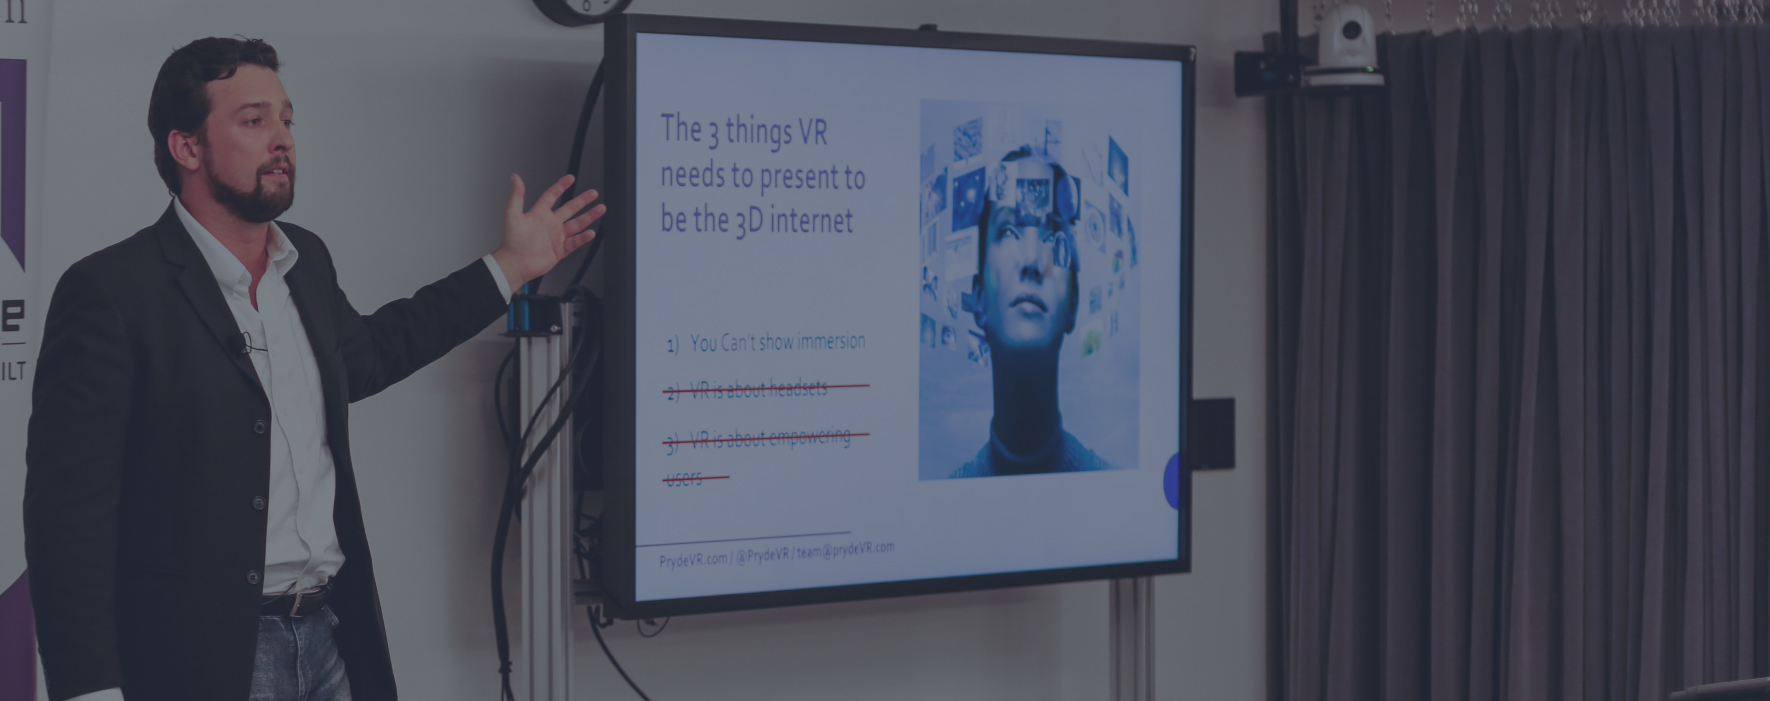
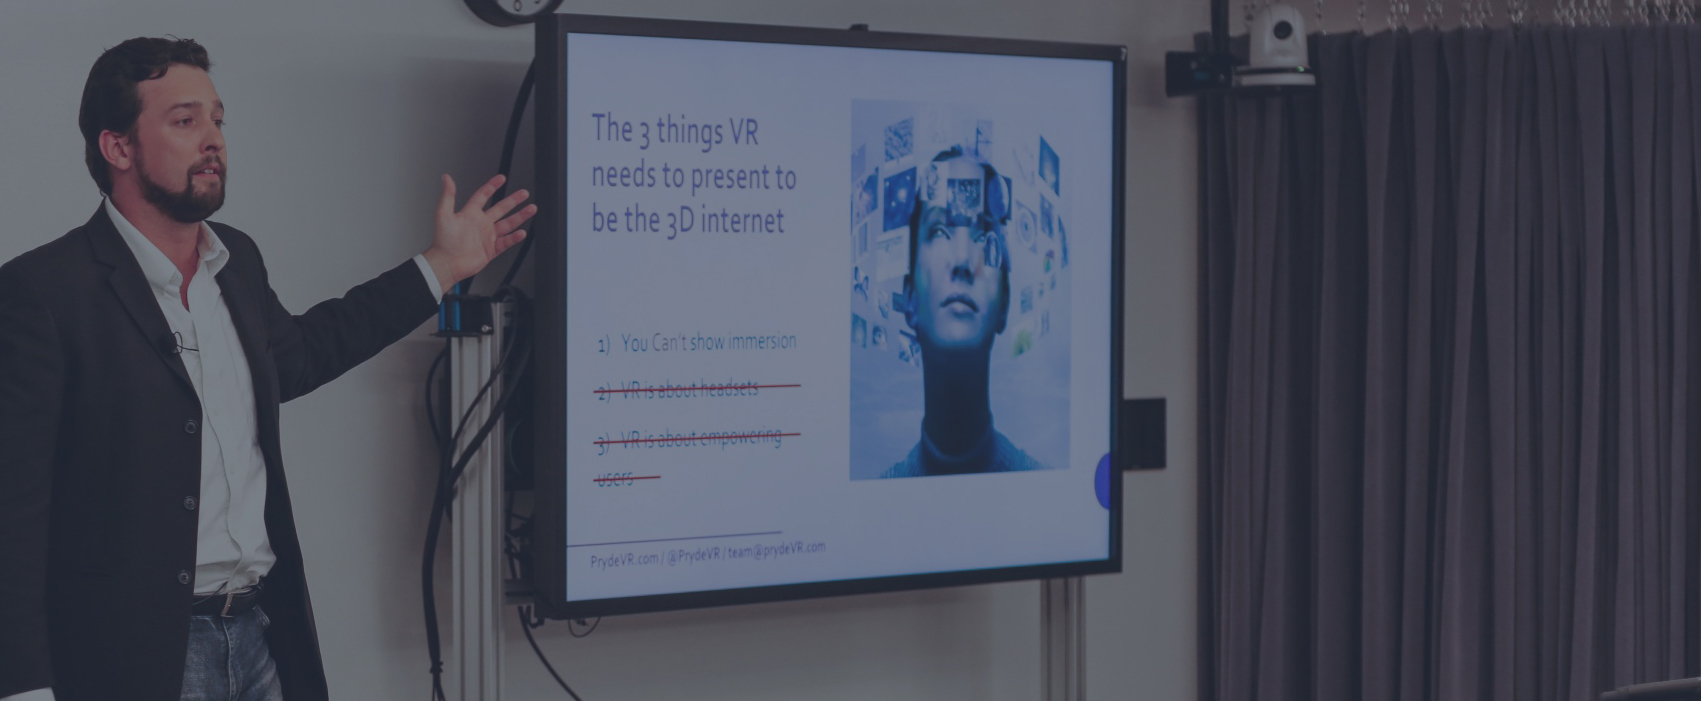
cropped about-bg-img

diff --git a/css/main.css b/css/main.css
@@ -1780,7 +1780,7 @@ html[data-useragent*='MSIE 10.0'] .scrolldown,
 #about {
   position: relative;
   padding: 4.2rem 0 12rem;
-  background-image: url("../images/about-bg.jpg");
+  background-image: url("../images/about-bg-cropped.jpg");
   background-repeat: no-repeat;
   background-position: left;
   background-color: rgba(51, 59, 80, 1);
